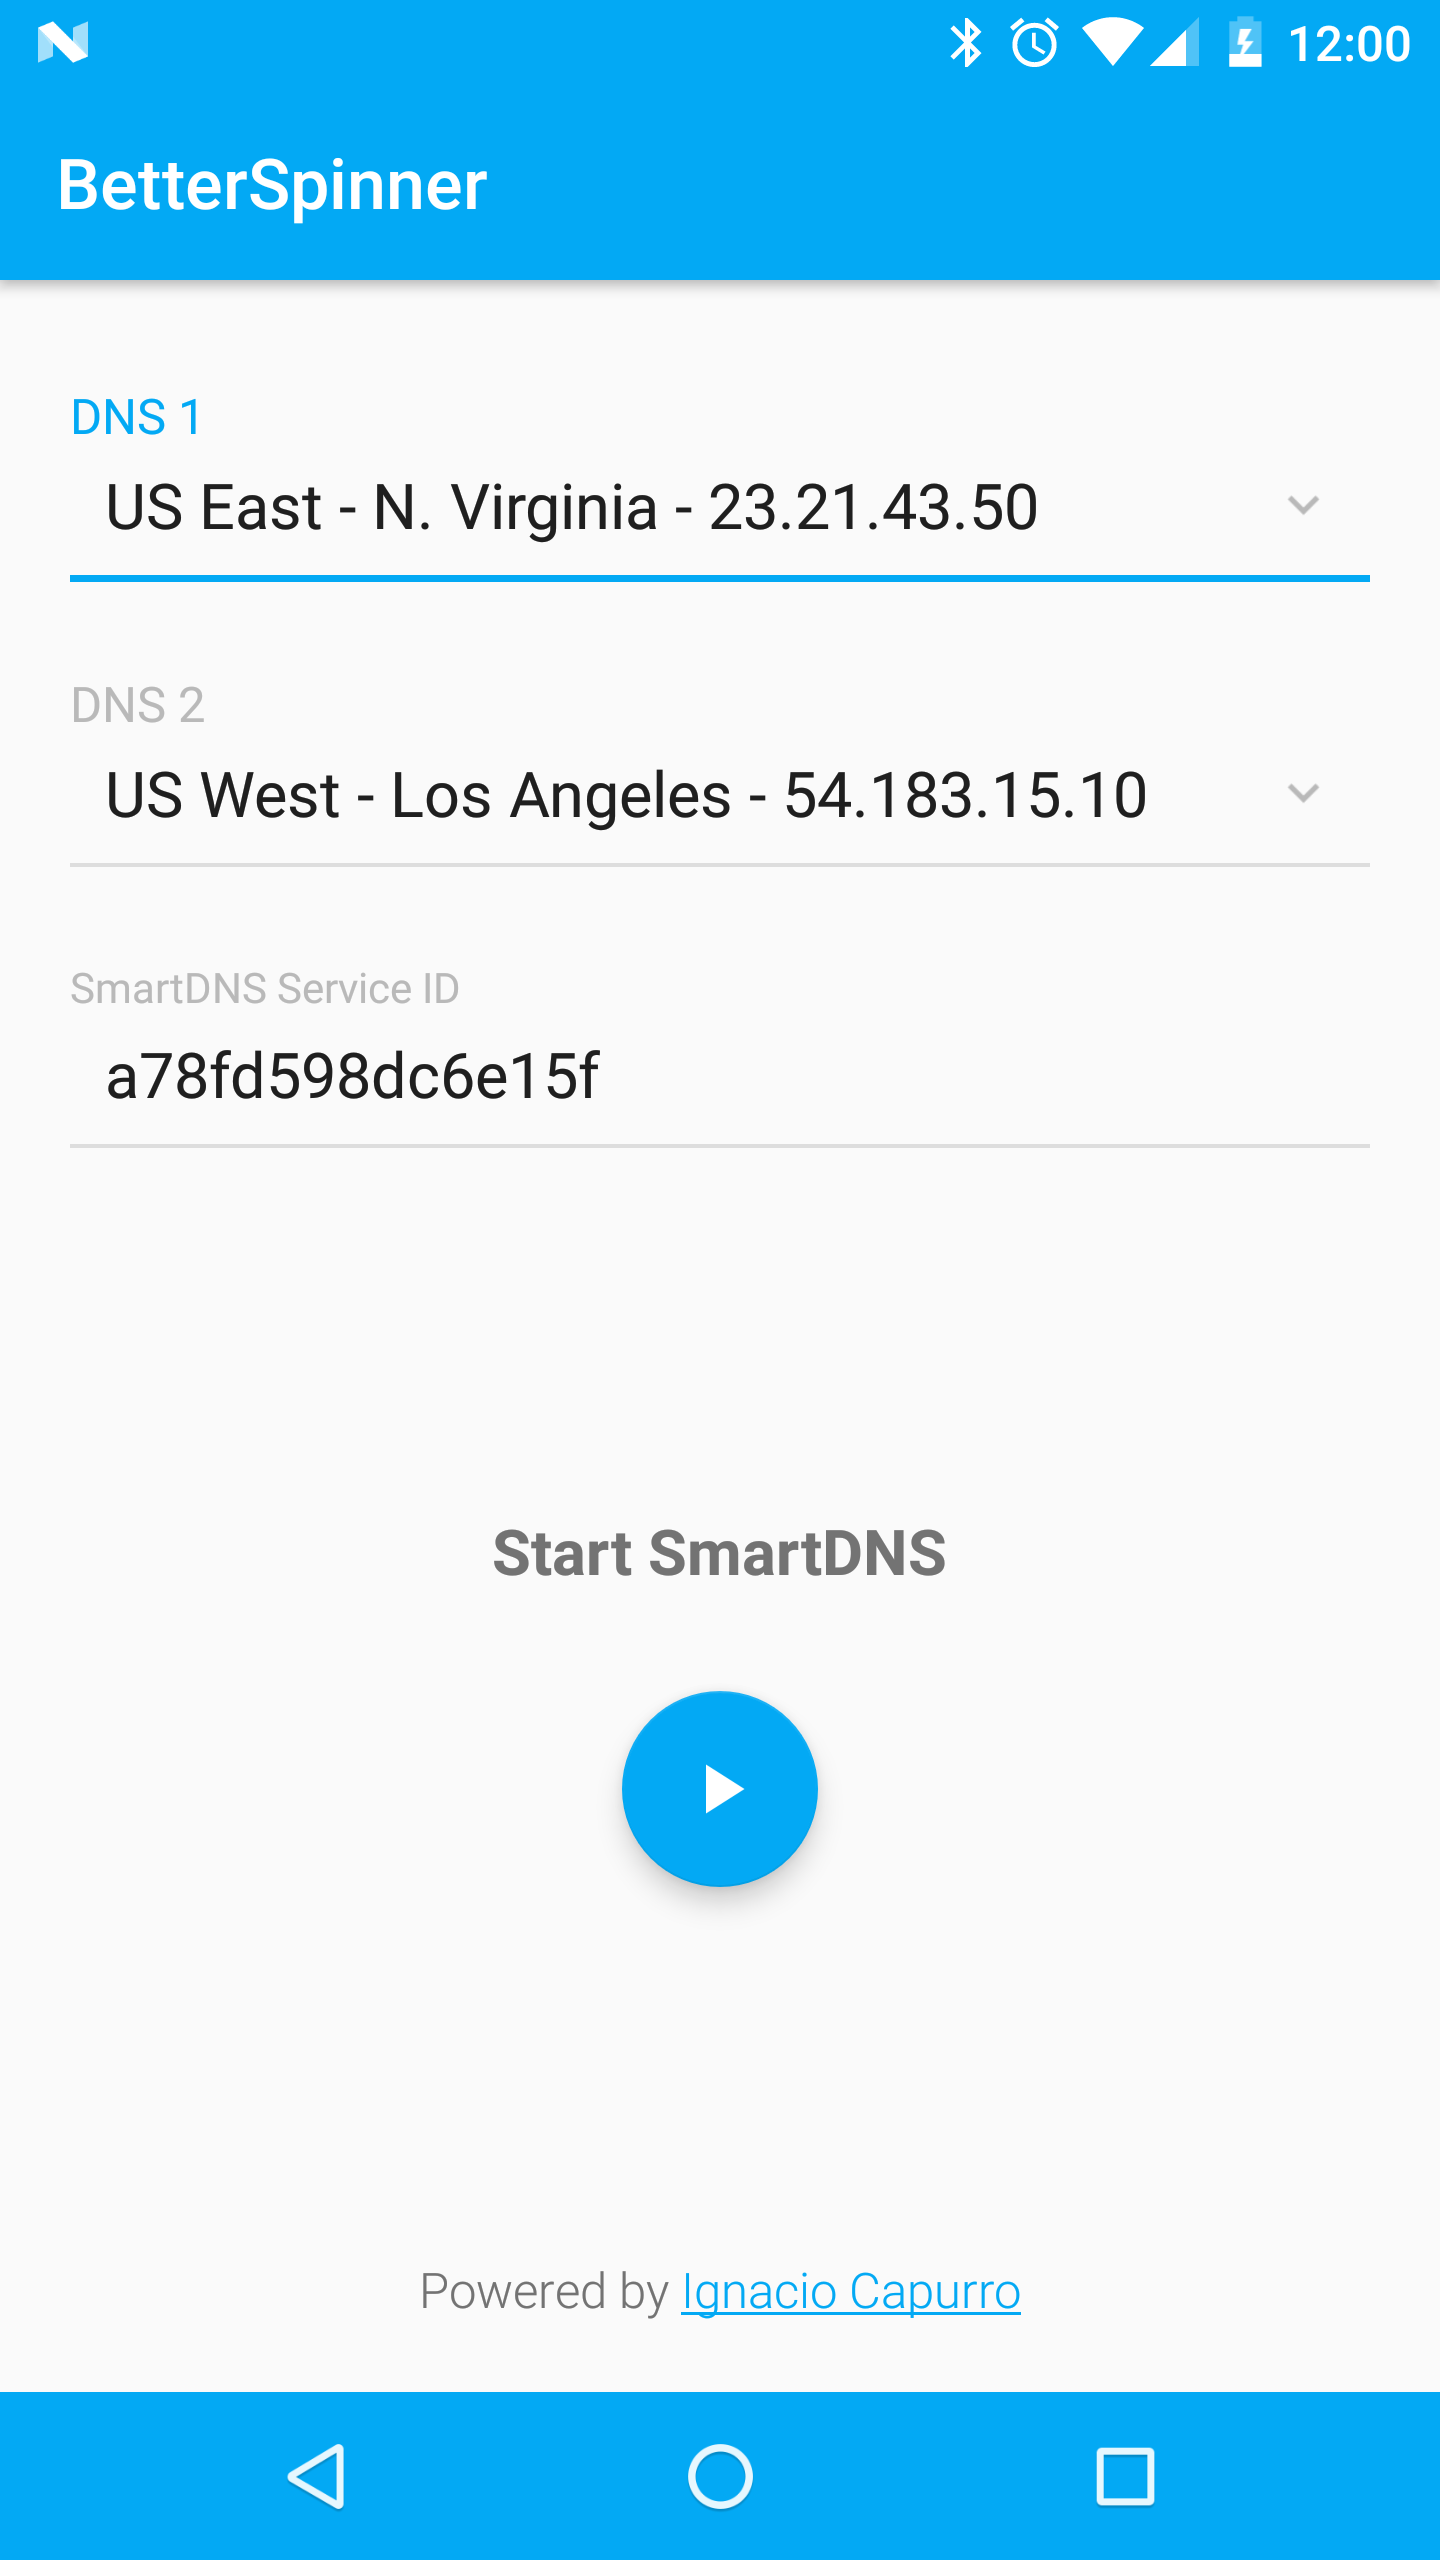
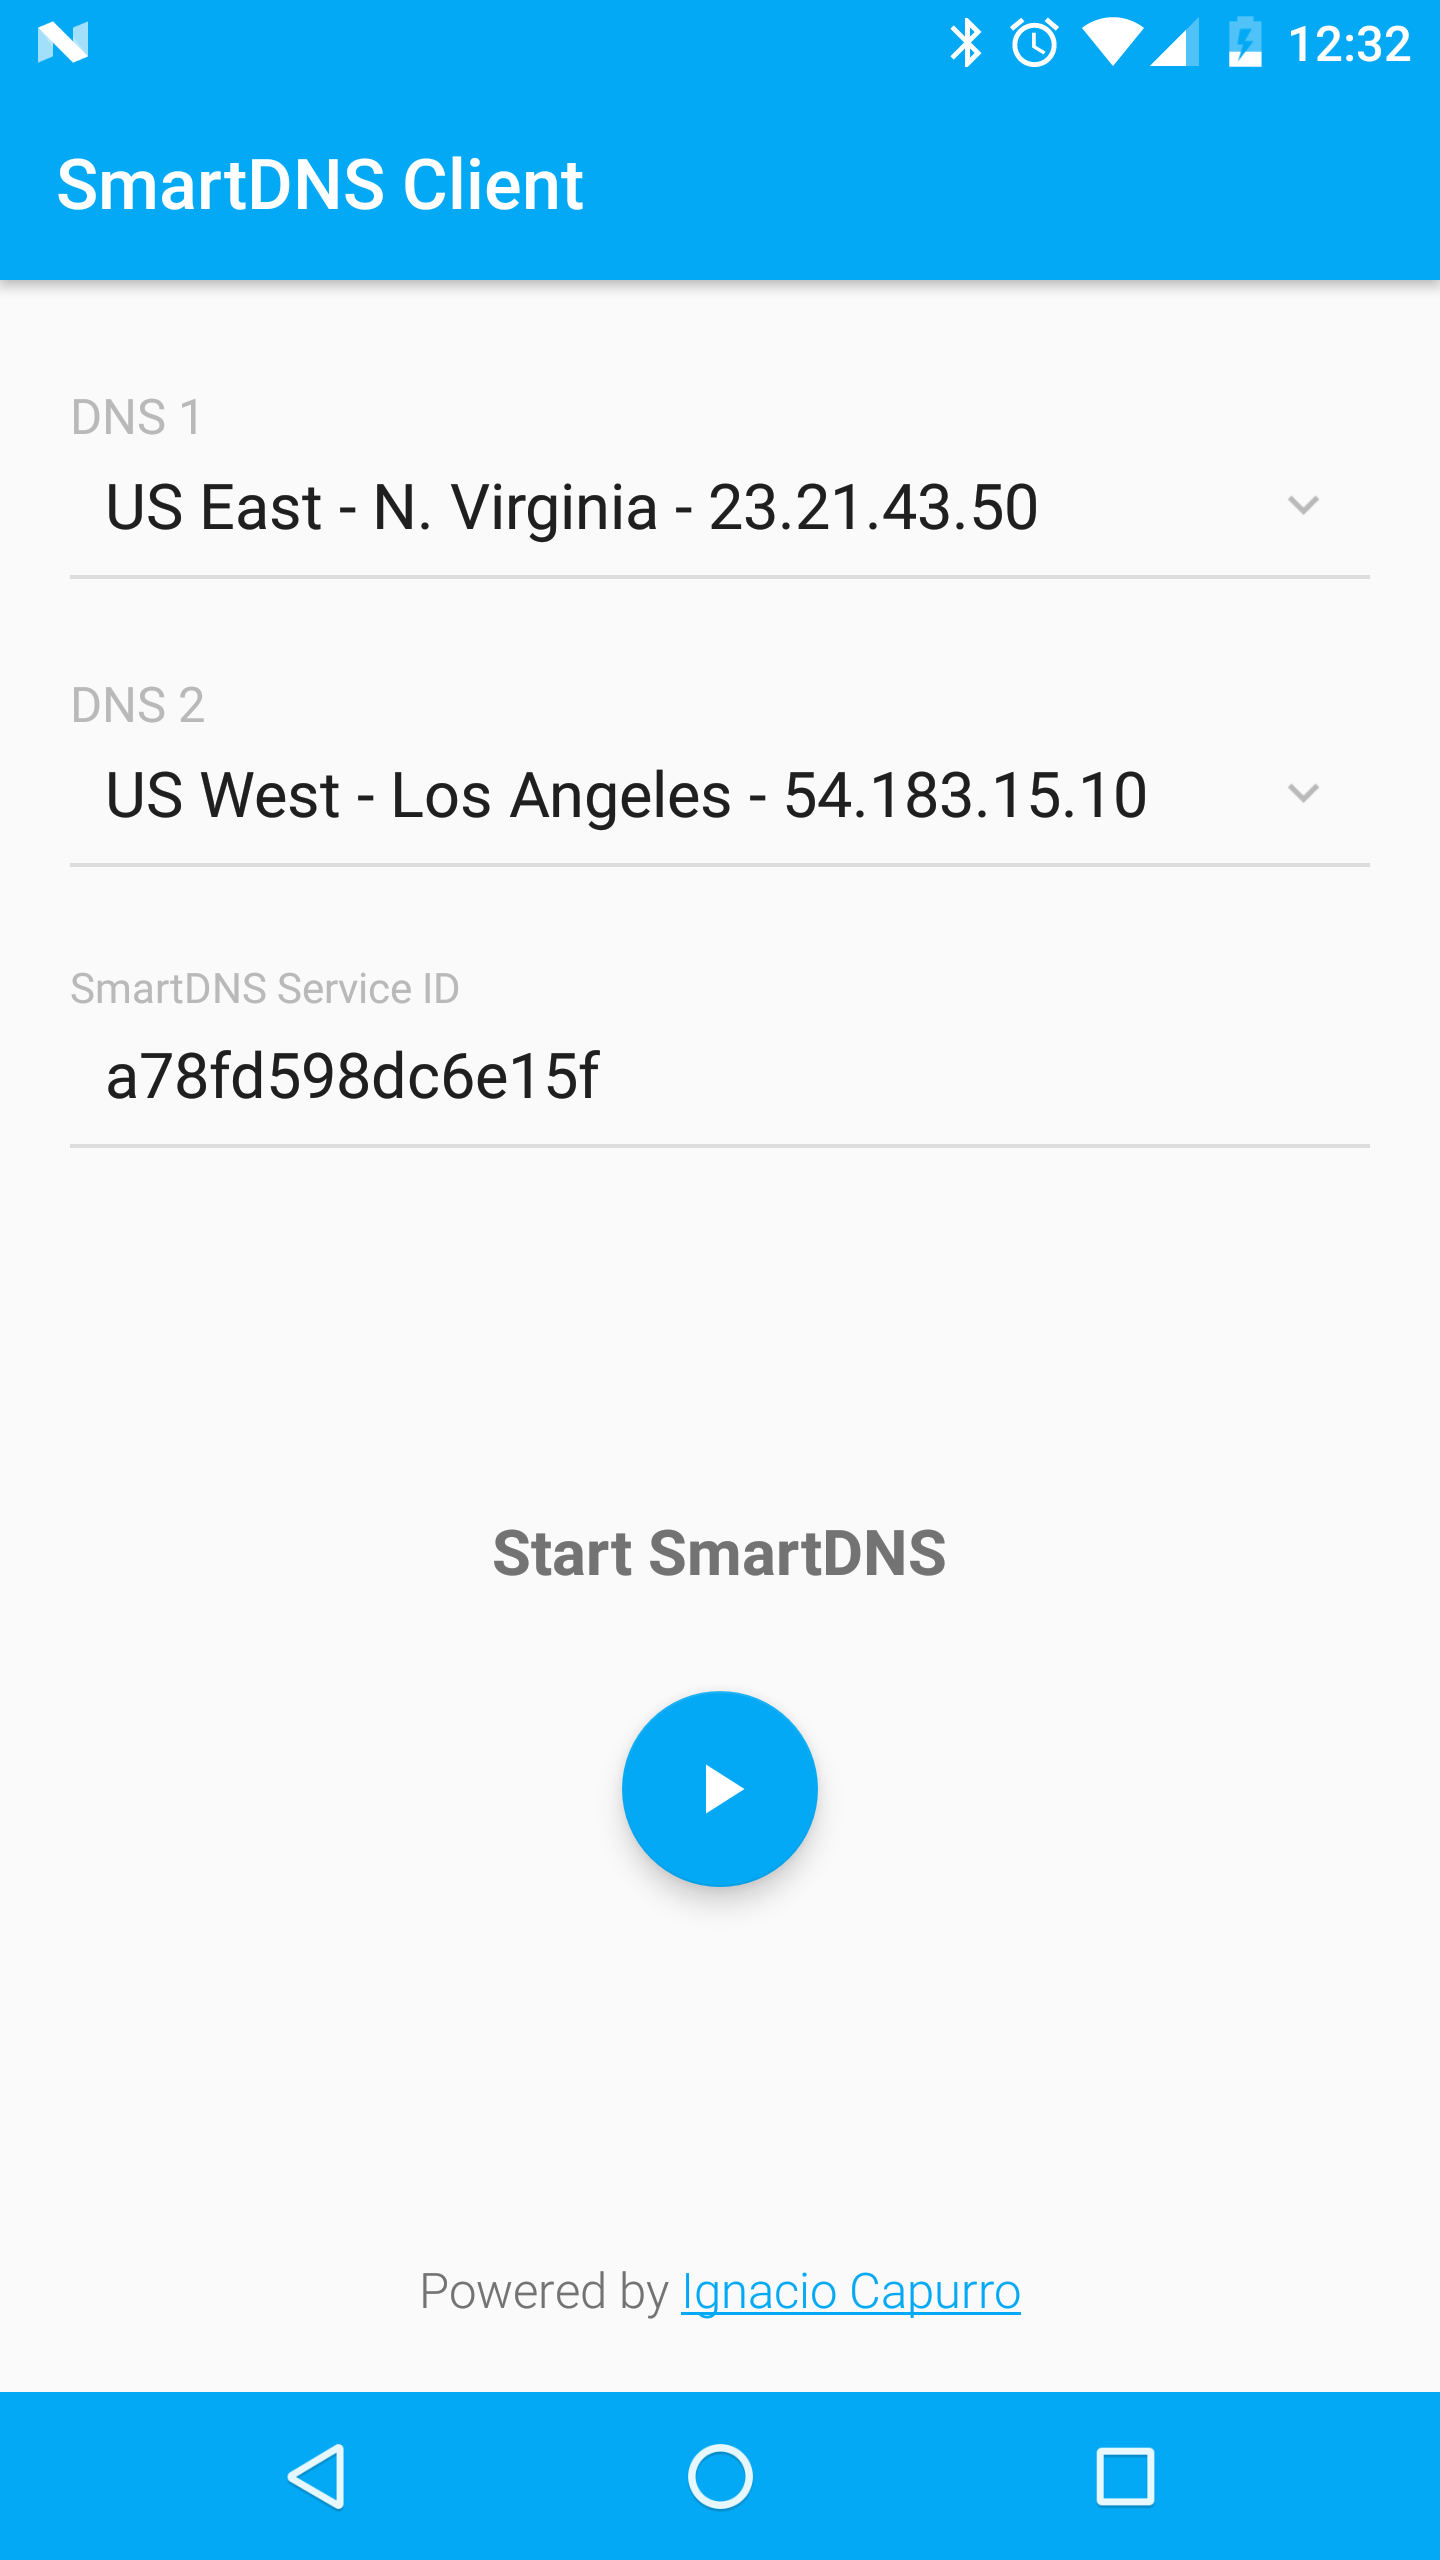
Starting to add readme
New readme

Updated readme

New screenshots with correct app name

Add privacy policy file

Minor code improvements

New ignored files

diff --git a/privacy_policy.html b/privacy_policy.html
@@ -1,0 +1,70 @@
+<html>
+<body>
+<h2>Privacy Policy</h2>
+<p>Ignacio Capurro built the SmartDNS Client app as an open source app. This SERVICE is provided by Ignacio Capurro at no cost and is intended 
+for use as is.</p>
+<p>This page is used to inform website visitors regarding my policies with the collection, use, and
+    disclosure of Personal Information if anyone decided to use my Service.</p>
+<p>If you choose to use my Service, then you agree to the collection and use of information in
+    relation with this policy. The Personal Information that I collect are used for providing and
+    improving the Service. I will not use or share your information with anyone except as described
+    in this Privacy Policy.</p>
+<p>The terms used in this Privacy Policy have the same meanings as in our Terms and Conditions,
+    which is accessible at SmartDNS Client, unless otherwise defined in this Privacy Policy.</p>
+
+<p><strong>Information Collection and Use</strong></p>
+<p>For a better experience while using my Service, I may require you to provide certain
+    personally identifiable information, including but not limited to crashes and user interaction. 
+	The information that I request is retained on your device and is not
+    collected by me in any way.</p>
+<p>The app does use third party services that may collect information used to identify you.
+
+<p><strong>Log Data</strong></p>
+<p>I want to inform you that whenever you use my Service, in case of an error in the app I collect
+    data and information (through third party products) on your phone called Log Data. This Log Data
+    may include information such as your devices's Internet Protocol (“IP”) address, device name,
+    operating system version, configuration of the app when utilising my Service, the time and date
+    of your use of the Service, and other statistics.</p>
+
+<p><strong>Service Providers</strong></p> <!-- This part may seem like it's not needed, but if you use any Google services, or any other third party libraries, chances are, you need this. -->
+<p>I may employ third-party companies and individuals due to the following reasons:</p>
+<ul>
+    <li>To facilitate our Service;</li>
+    <li>To provide the Service on our behalf;</li>
+    <li>To perform Service-related services; or</li>
+    <li>To assist us in analyzing how our Service is used.</li>
+</ul>
+<p>I want to inform users of this Service that these third parties have access to your Personal
+    Information. The reason is to perform the tasks assigned to them on our behalf. However, they
+    are obligated not to disclose or use the information for any other purpose.</p>
+
+<p><strong>Security</strong></p>
+<p>I value your trust in providing us your Personal Information, thus we are striving to use
+    commercially acceptable means of protecting it. But remember that no method of transmission over
+    the internet, or method of electronic storage is 100% secure and reliable, and I cannot
+    guarantee its absolute security.</p>
+
+<p><strong>Links to Other Sites</strong></p>
+<p>This Service may contain links to other sites. If you click on a third-party link, you will be
+    directed to that site. Note that these external sites are not operated by me. Therefore, I
+    strongly advise you to review the Privacy Policy of these websites. I have no control over, and
+    assume no responsibility for the content, privacy policies, or practices of any third-party
+    sites or services.</p>
+
+<p><strong>Children's Privacy</strong></p>
+<p>This Service does not address anyone under the age of 13. I do not knowingly collect personal
+    identifiable information from children under 13. In the case I discover that a child under 13
+    has provided me with personal information, I immediately delete this from our servers. If you
+    are a parent or guardian and you are aware that your child has provided us with personal
+    information, please contact me so that I will be able to do necessary actions.</p>
+
+<p><strong>Changes to This Privacy Policy</strong></p>
+<p>I may update our Privacy Policy from time to time. Thus, you are advised to review this page
+    periodically for any changes. I will notify you of any changes by posting the new Privacy Policy
+    on this page. These changes are effective immediately, after they are posted on this page.</p>
+
+<p><strong>Contact Us</strong></p>
+<p>If you have any questions or suggestions about my Privacy Policy, do not hesitate to contact
+    me.</p>
+</body>
+</html>

diff --git a/README.md b/README.md
@@ -1,0 +1,34 @@
+Android SmartDNS Client
+====================
+
+This is an android client application for the [SmartDNS Proxy](https://www.smartdnsproxy.com/)
+service. You will be able to select the primary and secondary DNS servers and also trigger the IP
+update automatically at connection time. This app does not need your device to be rooted.
+
+To trigger the IP update you will need to obtain the service id associated with your account from
+this url https://www.smartdnsproxy.com/MyAccount/API.
+
+## Install
+Play store link coming
+
+## Screenshots
+| Screenshot 1 | screeenshot 2 |
+| ------------ | ------------- |
+| ![](https://raw.githubusercontent.com/icapurro/smartdns/master/images/device-demo-01.png) | ![](https://raw.githubusercontent.com/icapurro/smartdns/master/images/device-demo-02.png)|
+
+## License
+```
+Copyright 2016 Matthias Urhahn and Garret Yoder
+
+Licensed under the Apache License, Version 2.0 (the "License");
+you may not use this file except in compliance with the License.
+You may obtain a copy of the License at
+
+    http://www.apache.org/licenses/LICENSE-2.0
+
+Unless required by applicable law or agreed to in writing, software
+distributed under the License is distributed on an "AS IS" BASIS,
+WITHOUT WARRANTIES OR CONDITIONS OF ANY KIND, either express or implied.
+See the License for the specific language governing permissions and
+limitations under the License.
+```
